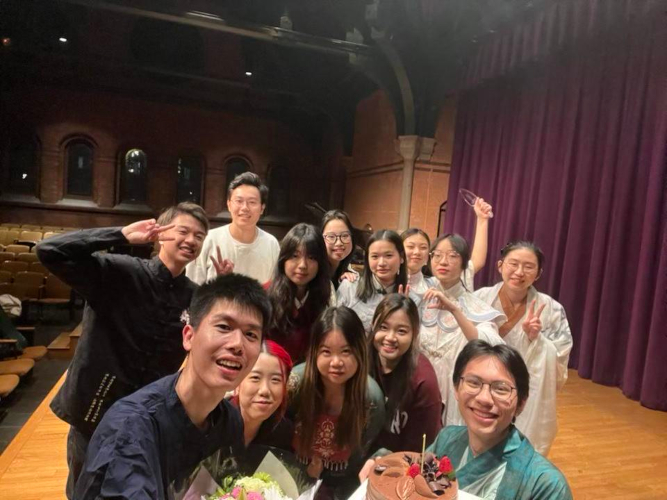
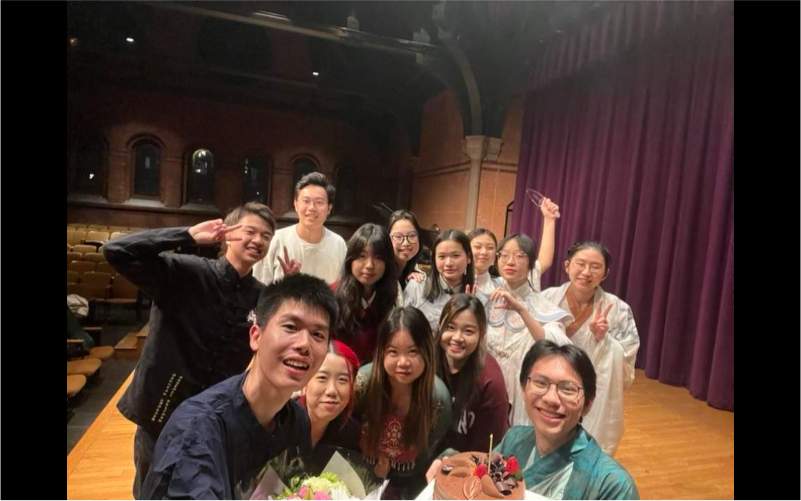
Finished wide home screen

diff --git a/index.html b/index.html
@@ -86,7 +86,7 @@
           <div class="flex-container">
             <button id="prev-button">◀</button>
             <picture id="image1">
-              <img src="images/home_teampic1.jpg" alt="Image of the team after an ensemble" width="667" height="500">
+              <img src="images/home_teampic1.jpg" alt="Image of the team after an ensemble" >
             </picture>
             <picture id="image2" class="hidden">
               <img src="images/home_teampic2.jpg" alt="Image of the team after an ensemble" width="750" height="500">
@@ -113,49 +113,65 @@
         <h2>E-board</h2>
         <div class="flex-cards">
           <div class="card">
-            <p>image</p>
+            <picture>
+              <img src="images/home_nala.png" alt="picture of Ray Chang" width="150" height="150">
+            </picture>
             <h3>Co-President</h3>
             <h4>Nala Peng</h4>
             <p>major</p>
           </div>
           <div class="card">
-            <p>image</p>
+            <picture>
+              <img src="images/home_alex.png" alt="picture of Ray Chang" width="150" height="150">
+            </picture>
             <h3>Co-President</h3>
             <h4>Alex Tan</h4>
             <p>major</p>
           </div>
           <div class="card">
-            <p>image</p>
+            <picture>
+              <img src="images/home_ray.png" alt="picture of Ray Chang" width="150" height="150">
+            </picture>
             <h3>Event Curator</h3>
             <h4>Ray Chang</h4>
             <p>major</p>
           </div>
           <div class="card">
-            <p>image</p>
+            <picture>
+              <img src="images/home_ella.png" alt="picture of Ray Chang" width="150" height="150">
+            </picture>
             <h3>Event Curator</h3>
             <h4>Ella Chen</h4>
             <p>major</p>
           </div>
           <div class="card">
-            <p>image</p>
+            <picture>
+              <img src="images/home_daisy.png" alt="picture of Ray Chang" width="150" height="150">
+            </picture>
             <h3>Publicity Chair</h3>
             <h4>Daisy Li</h4>
             <p>major</p>
           </div>
           <div class="card">
-            <p>image</p>
+            <picture>
+              <img src="images/home_hibiscus.png" alt="picture of Ray Chang" width="150" height="150">
+            </picture>
             <h3>Publicity Chair</h3>
             <h4>Hibiscus Chen</h4>
             <p>major</p>
           </div>
           <div class="card">
-            <p>image</p>
+            <picture>
+              <img src="images/home_emily.png" alt="picture of Ray Chang" width="150" height="150">
+            </picture>
             <h3>Treasurer</h3>
             <h4>Emily Shen</h4>
             <p>major</p>
           </div>
           <div class="card">
-            <p>image</p>
+            <picture>
+              <img src="images/home_carina.png" alt="picture of Ray Chang" width="150" height="150">
+            </picture>
             <h3>Treasurer</h3>
             <h4>Carina Lyu</h4>
             <p>major</p>

diff --git a/styles/site.css b/styles/site.css
@@ -355,17 +355,24 @@ footer {
 
 .gallery {
   margin-top: 3em;
+  width: 100%;
 }
 
 .next-prev .flex-container{
+  flex-direction: row;
   justify-content: center;
   align-items: center;
   display: flex;
+  width: 100%;
+  max-height: 500px;
 }
 
 .next-prev .flex-container button {
-  height: 500px;
-  width: 50px;
+  /* height: 100%; */
+  /* width: 50px; */
+  width: 10%;
+  max-width: 50px;
+  padding: 18% 1%;
   background-color:rgb(139, 139, 139);
   outline: none;
 }
@@ -378,9 +385,16 @@ footer {
   display: inline-block;
   max-width: 800px;
   max-height: 500px;
-  width: 800px;
-  height: 100%;
+  width: 100%;
+  height: auto;
   background-color: black;
+}
+.next-prev .flex-container picture img{
+  width: 100%;
+  height: auto;
+  max-height: 500px;
+  /* min-width: 350px; */
+  max-width: 750px;
 }
 .bottom-buttons .flex-container button{
   display: inline-block;
@@ -397,6 +411,9 @@ footer {
 .bottom-buttons .flex-container button:hover{
   background-color: #5f5f5f;
   cursor: pointer;
+}
+.bottom-buttons .flex-container{
+  flex-direction: row;
 }
 .flex-cards{
   display: flex;
@@ -417,6 +434,13 @@ footer {
   border-right: black solid;
   border-radius: 20px;
   margin: 1em 2em;
+}
+.card picture img{
+  padding-top: 10px;
+  max-width: 150px;
+  width: 100%;
+  height: auto;
+  border-radius: 50%;
 }
 
 .page-content img{

diff --git a/ourevents.html b/ourevents.html
@@ -70,7 +70,6 @@
                 </div>
               </div>
             </div>
-            ⏺
         <div class="flex-container">
         <article>
             <h3>Fall: Asian Music Night</h3>
